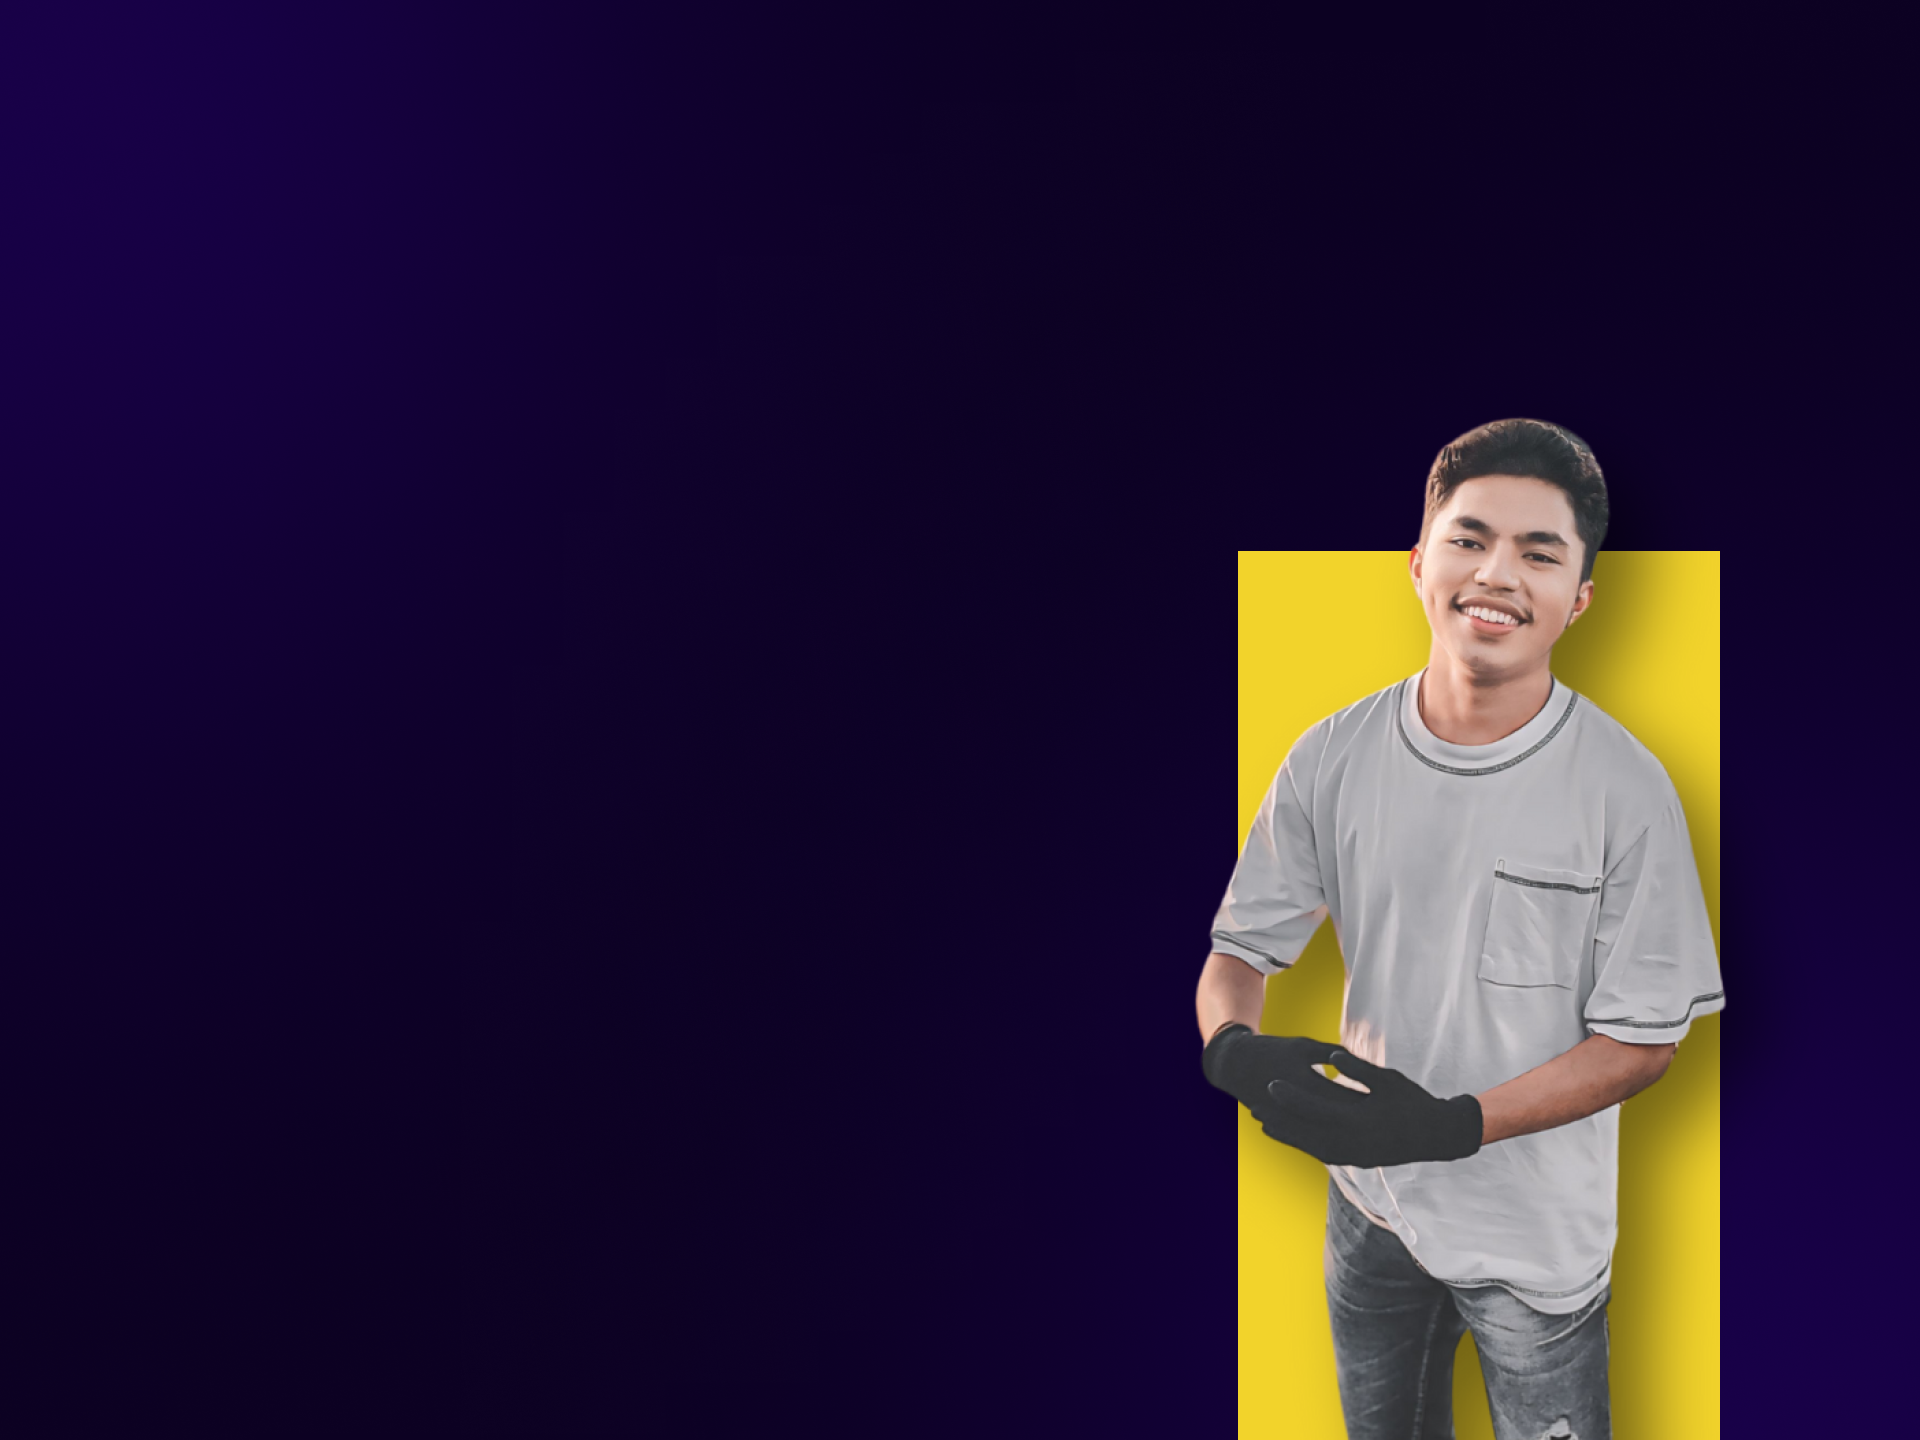
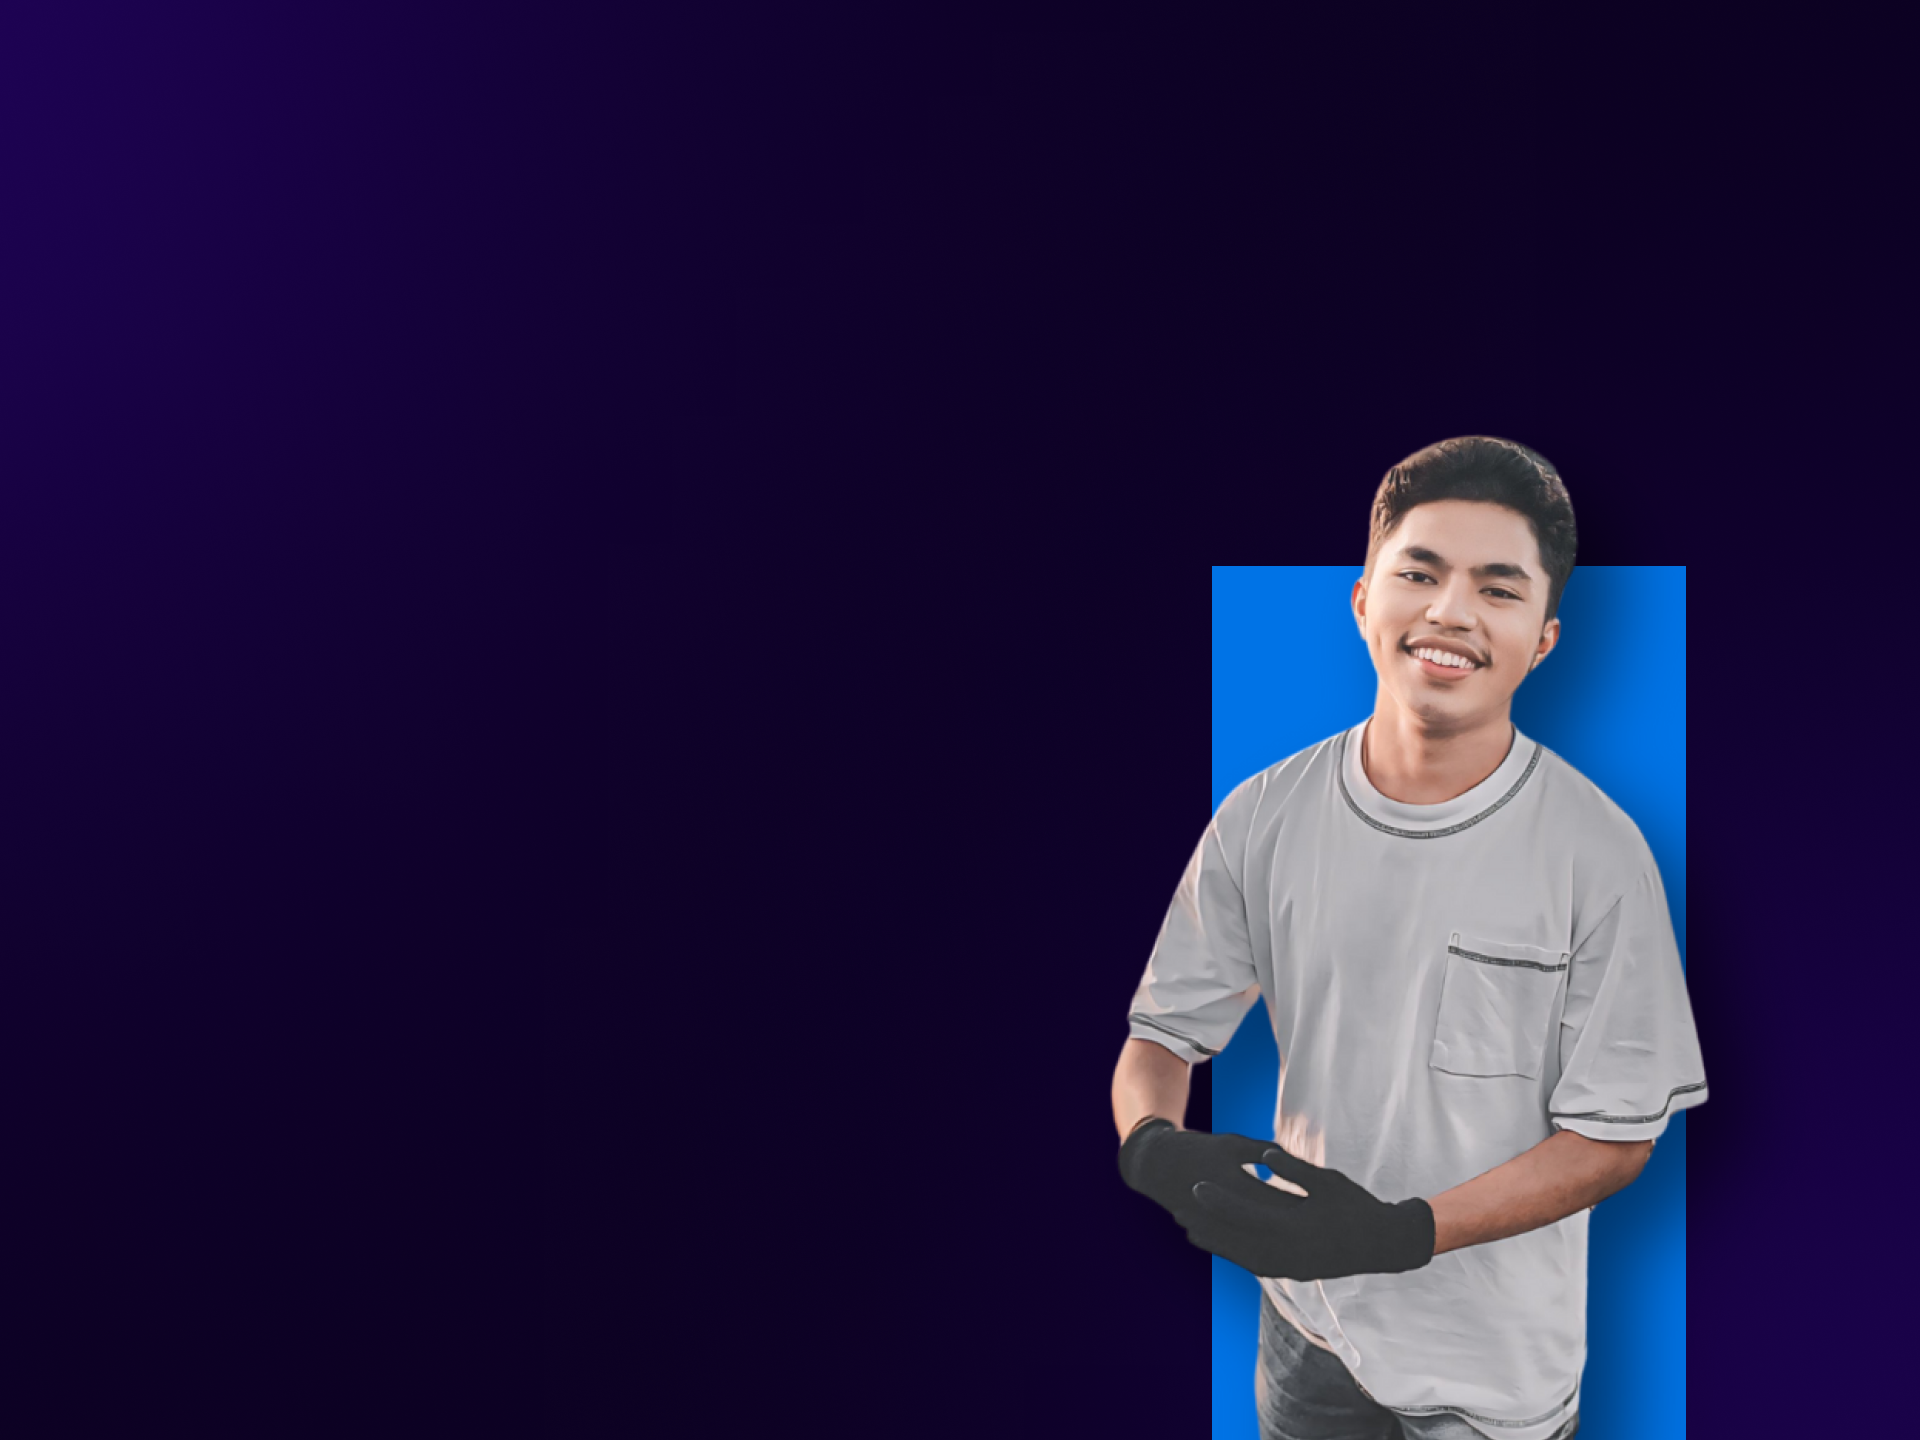
Commit Ke 3

Changed region(s): [[0.5625, 0.2812, 0.9062, 1.0]]

diff --git a/index.html b/index.html
@@ -10,6 +10,8 @@
       rel="stylesheet"
       href="https://fonts.googleapis.com/css2?family=Material+Symbols+Outlined:opsz,wght,FILL,GRAD@20..48,100..700,0..1,-50..200"
     />
+
+    <script src="https://unpkg.com/feather-icons"></script>
   </head>
   <body>
     <!-- Navbar -->
@@ -20,7 +22,7 @@
         <a href="#about">About</a>
         <a href="#service">Service</a>
         <a href="#portfolio">PortFolio</a>
-        <a href="#home">Contact</a>
+        <a href="#contact">Contact</a>
       </div>
       <div class="navbar-extra">
         <a href="#hamburger-menu" id="hamburger-menu">
@@ -88,6 +90,7 @@
       </div>
     </section>
 
+    <!-- Service -->
     <section class="service" id="service">
       <div class="judul-card">
         <h1 class="h1">What I Do</h1>
@@ -124,6 +127,7 @@
       </div>
     </section>
 
+    <!-- Portfolio -->
     <section class="portfolio" id="portfolio">
       <h2 class="judul-port">Portofolio</h2>
       <div class="content-port">
@@ -156,10 +160,54 @@
           </div>
         </div>
       </div>
-      <a class="btn-port" href="">Selengkapnya</a>
+      <a
+        class="btn-port"
+        href="https://drive.google.com/drive/folders/1BCH_e7Y5or73KpniypLDK0HRbZ7YbRsJ?usp=sharing"
+        >Selengkapnya</a
+      >
     </section>
+
+    <!-- Contact -->
+    <section class="contact" id="contact">
+      <h2 class="judul-contact">Contact</h2>
+      <div class="content-contact">
+        <div class="sosmed">
+          <h2>Ikuti Kami di Sosial Media</h2>
+          <ul>
+            <li><i data-feather="facebook"></i><a href="">Facebook</a></li>
+            <li><i data-feather="instagram"></i><a href="#">Instagram</a></li>
+            <li><i data-feather="linkedin"></i><a href="#">Linkedin</a></li>
+            <li><i data-feather="whatsapp"></i><a href="#">Whatsapp</a></li>
+          </ul>
+        </div>
+        <div action="#" class="form">
+          <div class="input-box">
+            <label for="name">Full Name</label>
+            <input type="text" id="name" placeholder="Enter Full Name" />
+          </div>
+          <div class="input-box">
+            <label for="name">Full Name</label>
+            <input type="text" id="name" placeholder="Enter Full Name" />
+          </div>
+            <div class="pesan-box">
+              <label for="message">Pesan:</label>
+              <textarea id="message" name="message" rows="4" required placeholder="Pesan"></textarea>
+            </div>
+            <button type="submit" class="btn-sub">Kirim</button>
+            </div>
+            </div>
+        </div>
+      </div>
+          
+
+
 
     <!-- javascript -->
     <script src="script.js"></script>
+
+    <!-- Feather Icon -->
+    <script>
+      feather.replace();
+    </script>
   </body>
 </html>

diff --git a/style.css b/style.css
@@ -10,7 +10,7 @@
 }
 
 :root {
-  --Primary: #fcdb2a;
+  --Primary: #0073e6;
   --Secondary: #120134;
   --bg: #0c0122;
 }
@@ -119,7 +119,7 @@ body {
 }
 
 .hero .content .cta:hover {
-  background-color: #b59b08;
+  background-color: #07417b;
   color: #fff;
 }
 
@@ -149,7 +149,6 @@ body {
 }
 .image {
   grid-area: image;
-  background-color: #fcdb2a;
   min-height: 350px;
   min-width: 300px;
   max-height: 500px;
@@ -276,7 +275,7 @@ body {
 }
 
 .service a:hover {
-  background-color: #b59b08;
+  background-color: #07417b;
   color: #fff;
 }
 
@@ -285,7 +284,8 @@ body {
   margin: 5rem 4rem 3rem 4rem;
 }
 
-.portfolio .judul-port {
+.judul-port,
+.judul-contact {
   margin: 3rem 0 1rem 0;
   align-items: center;
   font-size: 3rem;
@@ -331,8 +331,81 @@ body {
 }
 
 .btn-port:hover {
-  background-color: #b59b08;
+  background-color: #07417b;
   color: #fff;
+}
+
+.contact {
+  margin: 7rem 0;
+  width: 100%;
+  box-shadow: 0 0 10px rgba(0, 0, 0, 0.1);
+  border-radius: 8px;
+  overflow: hidden;
+}
+
+.judul-contact {
+  text-align: center;
+}
+
+.content-contact {
+  display: flex;
+  justify-content: center;
+  margin: 0 15%;
+}
+.content-contact ul {
+  list-style: none;
+}
+
+.sosmed,
+.form {
+  width: 50%;
+  padding: 1rem 5rem;
+}
+
+.sosmed {
+  background-color: var(--Primary);
+}
+
+.form {
+  background-color: #07417b;
+}
+.form .input-box {
+  font-size: 0.8rem;
+  font-weight: 500;
+  margin: 0.6rem 0;
+}
+
+.form .input-box input,
+.form .pesan-box textarea {
+  width: 100%;
+  padding: 0.5rem;
+  height: 30px;
+  color: gray;
+  border-radius: 3px;
+}
+
+.form .pesan-box textarea {
+  height: 5rem;
+  font-family: "Poppins", sans-serif;
+}
+
+.pesan-box input {
+  display: flex;
+  height: 30rem;
+}
+
+.btn-sub {
+  background-color: var(--Primary);
+  display: inline-block;
+  padding: 0.5rem 2rem;
+  font-size: 1rem;
+  border-radius: 0.6rem;
+  margin-top: 1rem;
+  box-shadow: 2px 2px 2px rgba(0, 0, 0, 0.2);
+  text-shadow: 2px 2px 5px rgba(0, 0, 0, 0.5);
+  transition: 0.3s;
+  font-weight: 500;
+  font-family: "Poppins", sans-serif;
 }
 
 /* Media Queries */
@@ -349,6 +422,9 @@ body {
   .portfolio {
     margin: 1rem 2rem;
   }
+  .content-contact {
+    margin: 0 5%;
+  }
 }
 
 /* Tablet */
@@ -360,6 +436,10 @@ body {
   #hamburger-menu {
     display: inline-block;
     color: var(--Primary);
+  }
+
+  #hamburger-menu:hover {
+    color: #fff;
   }
 
   .navbar .navbar-nav {
@@ -441,6 +521,17 @@ body {
   .content-port .img1 img {
     width: 100%;
   }
+
+  /* .content-contact {
+    display: flex;
+    flex-wrap: wrap;
+    margin: 0;
+  }
+  .sosmed,
+  .form {
+    padding: 2rem;
+    width: 100%;
+  } */
 }
 
 /* Handphone */
